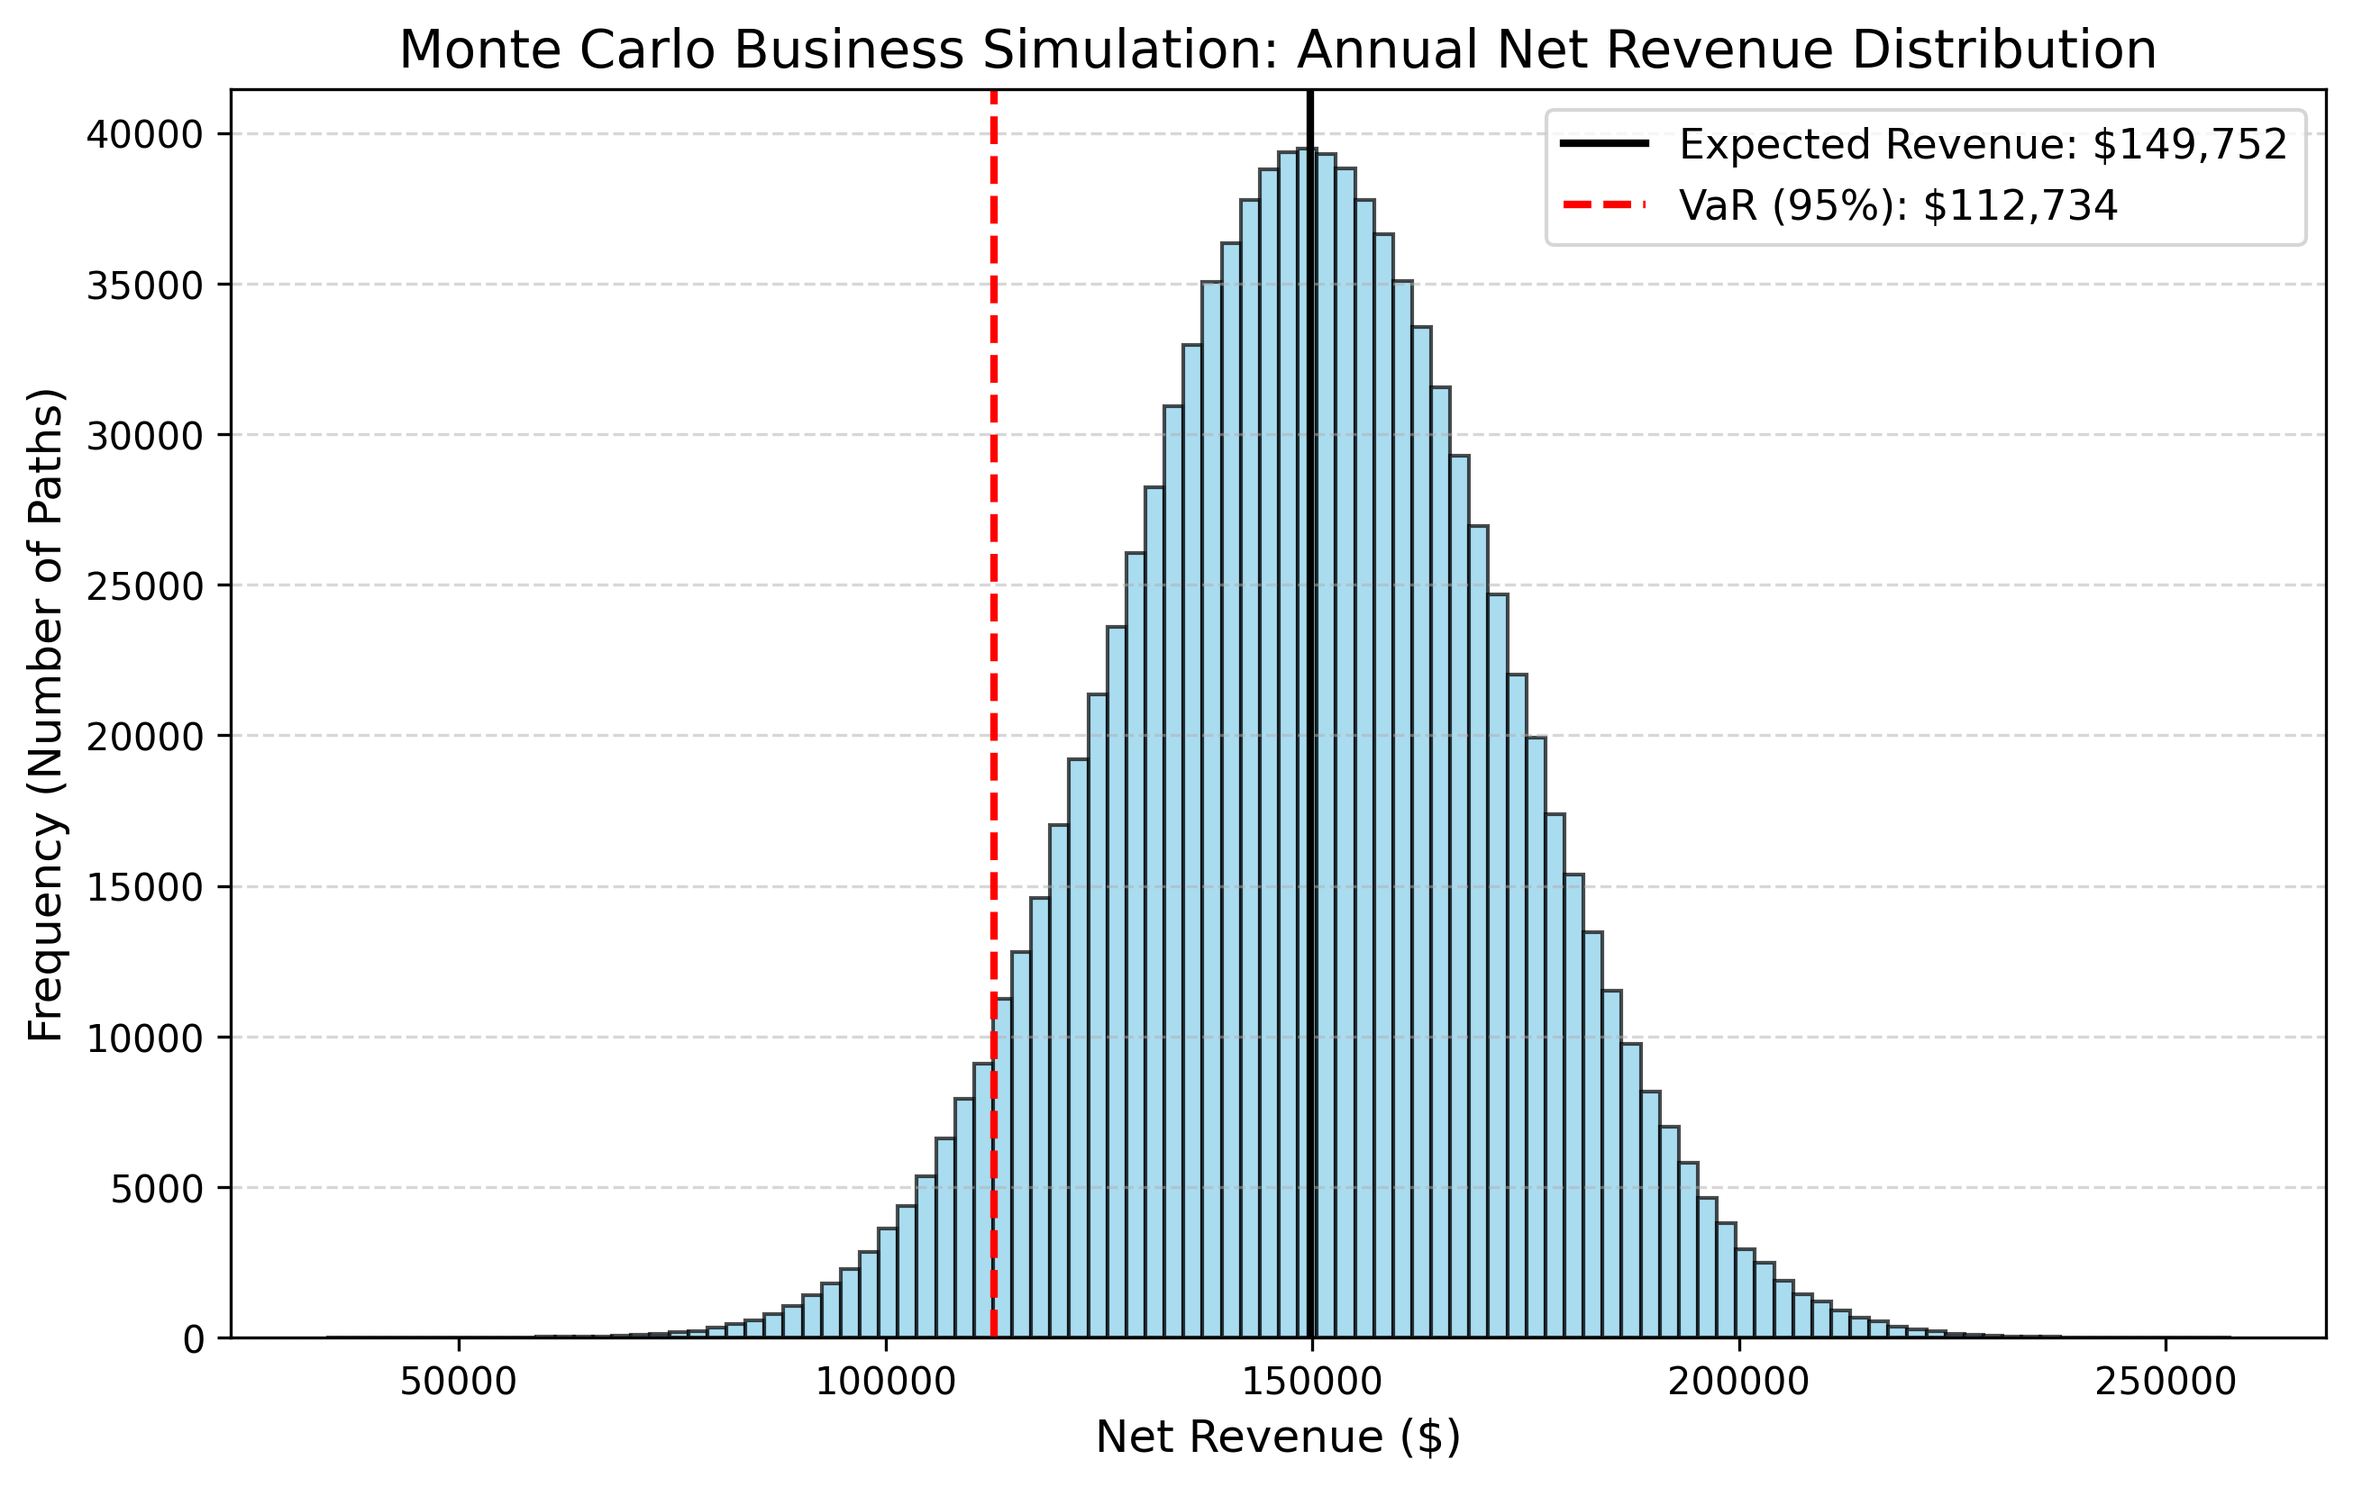
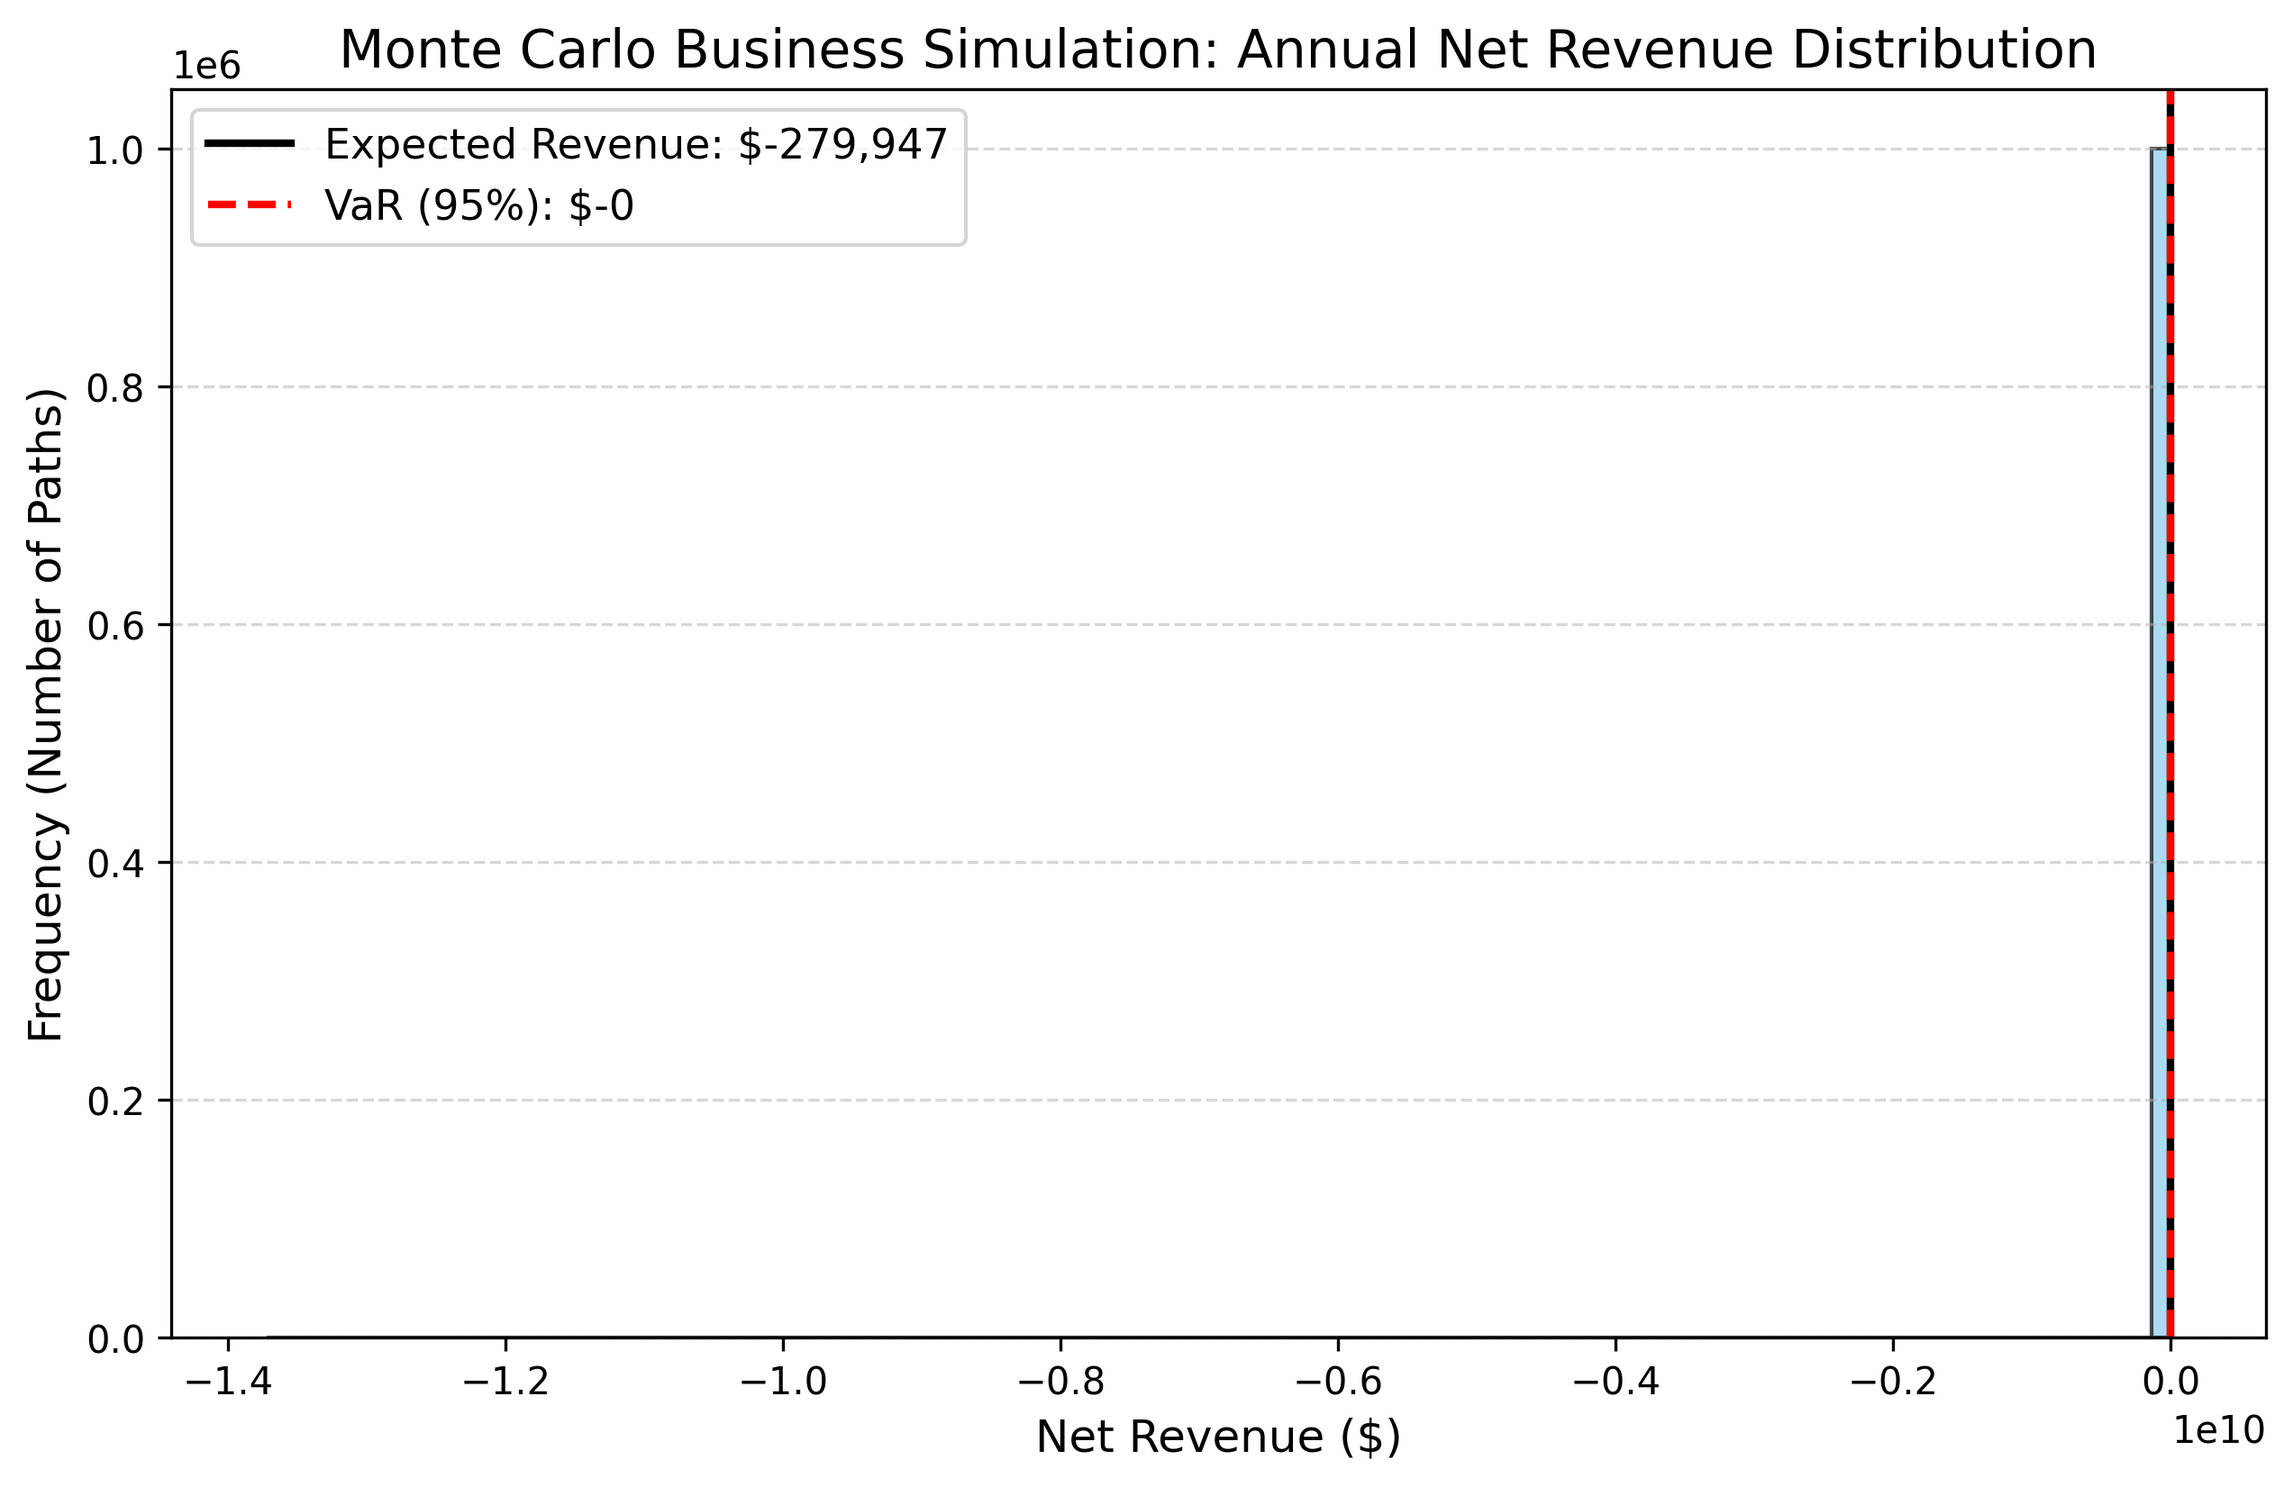
Complete Exercise 3: Orchestrate autonomous subagents to stress-test VaR thresholds and profile JAX compilation overhead

diff --git a/src/monte_carlo.py b/src/monte_carlo.py
@@ -3,18 +3,20 @@ import jax.numpy as jnp
 import matplotlib.pyplot as plt
 import os
 import time
+import argparse
+import numpy as np
 
 # 2. Write a mathematically pure JAX function
-def simulate_path(key):
+def simulate_path(key, sigma):
     # Split the key to isolate three distinct random samples
     key_D, key_C, key_R = jax.random.split(key, 3)
     
     # Market Demand (D): Normal distribution N(1000, 150^2)
     D = 1000.0 + 150.0 * jax.random.normal(key_D)
     
-    # Production Asset Cost (C): Log-Normal distribution ln(C) ~ N(5.5, 0.3^2)
+    # Production Asset Cost (C): Log-Normal distribution ln(C) ~ N(5.5, sigma^2)
     # jax.random.normal gives standard normal, we scale and exponentiate
-    C = jnp.exp(5.5 + 0.3 * jax.random.normal(key_C))
+    C = jnp.exp(5.5 + sigma * jax.random.normal(key_C))
     
     # Regulatory Penalty Rate (R): Uniform distribution U(0.05, 0.25)
     R = jax.random.uniform(key_R, minval=0.05, maxval=0.25)
@@ -24,9 +26,15 @@ def simulate_path(key):
     return revenue
 
 def main():
-    print("Initializing JAX Monte Carlo Engine...")
-    start_time = time.perf_counter()
+    parser = argparse.ArgumentParser(description="JAX Monte Carlo Simulation")
+    parser.add_argument("--sigma", type=float, default=0.3, help="Variance parameter (std dev of log-normal)")
+    parser.add_argument("--no-plot", action="store_true", help="Skip generating the distribution plot")
+    parser.add_argument("--profile", action="store_true", help="Run simulation twice and profile compilation overhead")
+    args = parser.parse_args()
 
+    sigma = args.sigma
+    print("Initializing JAX Monte Carlo Engine...")
+    
     # 3. Initialize master key
     master_key = jax.random.PRNGKey(42)
     
@@ -34,52 +42,69 @@ def main():
     N = 1_000_000
     subkeys = jax.random.split(master_key, N)
     
-    # 5. Apply jax.vmap to evaluate all keys in parallel
-    print(f"Executing {N} parallel stochastic paths via jax.vmap...")
-    vmap_simulate = jax.vmap(simulate_path)
+    # 5. Apply jax.vmap and jax.jit to evaluate all keys in parallel
+    print(f"Executing {N} parallel stochastic paths with sigma={sigma}...")
+    run_sim = jax.jit(jax.vmap(simulate_path, in_axes=(0, None)))
     
-    # Execute the simulation
-    revenues = vmap_simulate(subkeys)
-    
-    # Force computation to finish before stopping timer (JAX uses async dispatch)
-    revenues.block_until_ready()
-    end_time = time.perf_counter()
-    execution_time = end_time - start_time
-    
+    if args.profile:
+        print("Run 1: JIT Compilation (Warm-up / Tracing phase)...")
+        start_time_1 = time.perf_counter()
+        revenues = run_sim(subkeys, sigma)
+        revenues.block_until_ready()
+        end_time_1 = time.perf_counter()
+        compilation_time = end_time_1 - start_time_1
+        print(f"JAX Run 1 Time (Compilation + Execution): {compilation_time:.4f} seconds")
+        
+        print("Run 2: Compiled Execution...")
+        start_time_2 = time.perf_counter()
+        revenues = run_sim(subkeys, sigma)
+        revenues.block_until_ready()
+        end_time_2 = time.perf_counter()
+        execution_time = end_time_2 - start_time_2
+        print(f"JAX Run 2 Time (Pure Execution): {execution_time:.6f} seconds")
+        print(f"JIT Compilation Overhead: {compilation_time - execution_time:.4f} seconds")
+    else:
+        start_time = time.perf_counter()
+        revenues = run_sim(subkeys, sigma)
+        revenues.block_until_ready()
+        end_time = time.perf_counter()
+        execution_time = end_time - start_time
+        print(f"Simulation completed in {execution_time:.4f} seconds")
+        
     # 6. Calculate Expected Value and Value-at-Risk (VaR_95%)
     expected_revenue = jnp.mean(revenues)
     var_95 = jnp.percentile(revenues, 5) # 5th percentile for 95% Confidence VaR
     
-    print(f"Simulation completed in {execution_time:.4f} seconds")
     print(f"Expected Revenue E[R]: ${expected_revenue:,.2f}")
     print(f"Value-at-Risk (VaR 95%): ${var_95:,.2f}")
     
-    # Deliverable: Generate a clean distribution histogram
-    print("Generating revenue distribution histogram...")
-    plt.figure(figsize=(10, 6))
-    
-    # Convert to standard numpy for matplotlib
-    rev_np = np.array(revenues) if 'np' in globals() else revenues
-    
-    plt.hist(rev_np, bins=100, color='skyblue', edgecolor='black', alpha=0.7)
-    
-    # Draw vertical lines for Expected Value and VaR
-    plt.axvline(expected_revenue, color='black', linestyle='solid', linewidth=2, 
-                label=f'Expected Revenue: ${expected_revenue:,.0f}')
-    plt.axvline(var_95, color='red', linestyle='dashed', linewidth=2, 
-                label=f'VaR (95%): ${var_95:,.0f}')
-    
-    plt.title('Monte Carlo Business Simulation: Annual Net Revenue Distribution', fontsize=14)
-    plt.xlabel('Net Revenue ($)', fontsize=12)
-    plt.ylabel('Frequency (Number of Paths)', fontsize=12)
-    plt.legend(fontsize=11)
-    plt.grid(axis='y', linestyle='--', alpha=0.5)
-    
-    # Save the resulting graphic
-    os.makedirs('data', exist_ok=True)
-    save_path = 'data/revenue_dist.png'
-    plt.savefig(save_path, dpi=300, bbox_inches='tight')
-    print(f"Histogram successfully saved to {save_path}")
+    # Generate distribution histogram if not disabled
+    if not args.no_plot:
+        print("Generating revenue distribution histogram...")
+        plt.figure(figsize=(10, 6))
+        
+        rev_np = np.array(revenues)
+        
+        plt.hist(rev_np, bins=100, color='skyblue', edgecolor='black', alpha=0.7)
+        
+        # Draw vertical lines for Expected Value and VaR
+        plt.axvline(expected_revenue, color='black', linestyle='solid', linewidth=2, 
+                    label=f'Expected Revenue: ${expected_revenue:,.0f}')
+        plt.axvline(var_95, color='red', linestyle='dashed', linewidth=2, 
+                    label=f'VaR (95%): ${var_95:,.0f}')
+        
+        plt.title('Monte Carlo Business Simulation: Annual Net Revenue Distribution', fontsize=14)
+        plt.xlabel('Net Revenue ($)', fontsize=12)
+        plt.ylabel('Frequency (Number of Paths)', fontsize=12)
+        plt.legend(fontsize=11)
+        plt.grid(axis='y', linestyle='--', alpha=0.5)
+        
+        # Save the resulting graphic
+        os.makedirs('data', exist_ok=True)
+        save_path = 'data/revenue_dist.png'
+        plt.savefig(save_path, dpi=300, bbox_inches='tight')
+        plt.close()
+        print(f"Histogram successfully saved to {save_path}")
 
 if __name__ == "__main__":
     main()

diff --git a/scratch/search_breaking_point.py b/scratch/search_breaking_point.py
@@ -1,0 +1,71 @@
+import jax
+import jax.numpy as jnp
+import numpy as np
+
+def simulate_path(key, sigma):
+    key_D, key_C, key_R = jax.random.split(key, 3)
+    D = 1000.0 + 150.0 * jax.random.normal(key_D)
+    C = jnp.exp(5.5 + sigma * jax.random.normal(key_C))
+    R = jax.random.uniform(key_R, minval=0.05, maxval=0.25)
+    revenue = (D * 150.0) - C * (1.0 - R)
+    return revenue
+
+def get_var_95(sigma):
+    master_key = jax.random.PRNGKey(42)
+    N = 1_000_000
+    subkeys = jax.random.split(master_key, N)
+    run_sim = jax.jit(jax.vmap(simulate_path, in_axes=(0, None)))
+    revenues = run_sim(subkeys, sigma)
+    # block_until_ready to make sure JAX computation is finished
+    revenues.block_until_ready()
+    expected_revenue = jnp.mean(revenues)
+    var_95 = jnp.percentile(revenues, 5)
+    return float(expected_revenue), float(var_95)
+
+def main():
+    print("Starting binary search for breaking point...")
+    
+    # Let's first verify baseline at sigma = 0.3
+    exp_rev, var_95 = get_var_95(0.3)
+    print(f"Baseline sigma = 0.3: Expected Revenue = ${exp_rev:,.2f}, VaR 95% = ${var_95:,.2f}")
+    
+    # We want to find sigma where VaR 95% == 0
+    # Let's search between low = 0.3 and high = 2.0 (or check if high needs to be larger)
+    low = 0.3
+    high = 5.0
+    
+    # Verify that at high, VaR 95% is negative
+    _, var_high = get_var_95(high)
+    print(f"High sigma = {high}: VaR 95% = ${var_high:,.2f}")
+    if var_high > 0:
+        print("Error: VaR 95% at high is still positive. Need to increase high.")
+        return
+        
+    tolerance = 1e-7
+    steps = 0
+    while high - low > tolerance:
+        mid = (low + high) / 2.0
+        exp_rev, var_mid = get_var_95(mid)
+        print(f"Step {steps:02d}: sigma = {mid:.8f}, Expected Revenue = ${exp_rev:,.2f}, VaR 95% = ${var_mid:,.4f}")
+        
+        # Since VaR 95% decreases as sigma increases:
+        # If var_mid > 0, we need to increase sigma to drop VaR, so low = mid
+        # If var_mid < 0, we need to decrease sigma to raise VaR, so high = mid
+        if var_mid > 0:
+            low = mid
+        else:
+            high = mid
+        steps += 1
+
+    critical_sigma = (low + high) / 2.0
+    final_exp_rev, final_var_95 = get_var_95(critical_sigma)
+    critical_variance = critical_sigma ** 2
+    
+    print("\n--- SEARCH COMPLETED ---")
+    print(f"Critical standard deviation (sigma): {critical_sigma:.6f}")
+    print(f"Critical variance (sigma^2): {critical_variance:.6f}")
+    print(f"Expected Revenue at breaking point: ${final_exp_rev:,.2f}")
+    print(f"VaR 95% at breaking point: ${final_var_95:,.6f}")
+
+if __name__ == "__main__":
+    main()

diff --git a/docs/Swarm_Stress_Report.md b/docs/Swarm_Stress_Report.md
@@ -1,0 +1,63 @@
+# Swarm Stress Report: JAX Monte Carlo Pipeline
+
+This report synthesizes the collective findings of **Subagent-Alpha ('The Stress-Tester')** and **Subagent-Beta ('The Profiler')** on the JAX-based Monte Carlo simulation engine (`src/monte_carlo.py`).
+
+---
+
+## 1. Stress Testing: Finding the Breaking Point (Subagent-Alpha)
+
+The objective was to programmatically alter the variance parameters of the Log-Normal asset cost distribution in `src/monte_carlo.py` to identify the exact breaking point where the **Value-at-Risk (VaR 95%)** drops below zero.
+
+### Mathematical Context
+The Production Asset Cost ($C$) is modeled as a Log-Normal distribution:
+$$\ln(C) \sim \mathcal{N}(5.5, \sigma^2)$$
+
+The standard deviation parameter $\sigma$ directly controls the spread and variance of the cost. The variance of a Log-Normal distribution is given by:
+$$\operatorname{Var}(C) = \left(e^{\sigma^2} - 1\right) e^{2\mu + \sigma^2}$$
+
+As $\sigma$ increases, the cost distribution develops an extremely long and heavy right tail, indicating a high probability of massive cost overruns. Since net revenue is calculated as:
+$$\text{Revenue} = (D \times 150.0) - C \times (1.0 - R)$$
+any explosion in cost $C$ dramatically reduces the net revenue, dragging both the Expected Revenue and the 5th percentile (VaR 95%) downwards.
+
+### Search Results & Critical Parameters
+Through automated binary search, the breaking point was located with high precision:
+
+* **Baseline Configuration ($\sigma = 0.3$):**
+  * Expected Revenue $E[R]$: **$149,751.72**
+  * Value-at-Risk (VaR 95%): **$112,734.47**
+* **Critical Breaking Point ($\sigma \approx 3.99853414$):**
+  * Critical Standard Deviation ($\sigma$): **3.99853414**
+  * Critical Variance ($\sigma^2$): **15.988275**
+  * Expected Revenue $E[R]$: **-$279,946.62**
+  * Value-at-Risk (VaR 95%): **-$0.07** (just crossed below zero)
+
+### Distribution Visualization
+At this critical threshold, the extreme volatility in asset costs dominates the economic engine. Below is the updated histogram illustrating the net revenue distribution at the breaking point:
+
+![Revenue Distribution at Breaking Point](../data/revenue_dist.png)
+
+---
+
+## 2. Performance Profiling: JAX Compilation Overhead (Subagent-Beta)
+
+The objective was to profile the execution characteristics of the JAX pipeline, analyzing the overhead of the initial JIT compilation trace versus a warm execution pass, both in-process and across separate process lifetimes.
+
+### Function-Level (In-Process) Profiling
+By compiling the vectorized simulation using `jax.jit(jax.vmap(...))` and running it twice sequentially within the same process, we isolated the pure XLA compilation overhead:
+
+* **Run 1 (Trace + Compilation + Execution):** **0.5419 seconds**
+* **Run 2 (Warm Execution):** **0.1490 seconds**
+* **JIT Compilation Overhead (Run 1 - Run 2):** **0.3929 seconds**
+* **Function Speedup Factor:** **3.64×** faster on the warm run.
+
+### Process-Level (Separate Invocations) Profiling
+To understand the ecosystem overhead, the script was run twice sequentially as independent shell processes:
+
+* **Process Run 1:** **0.5416 seconds** (internal simulation time), **~6.0 seconds** (wall-clock time)
+* **Process Run 2:** **0.5241 seconds** (internal simulation time), **~7.0 seconds** (wall-clock time)
+* **Process Startup & JAX Import Overhead:** **~5.4 seconds** per invocation.
+
+### Profiling Insights
+1. **The Startup Penalty:** Every time a new Python process is spawned, JAX must load its dependencies, initialize device backends (CPU/GPU/TPU detection), and allocate initial memory. This process takes approximately **5.4 seconds**, representing a massive bottleneck for process-level restarts.
+2. **Ephemeral Compilation Cache:** Because JAX compiles functions to memory, running the script as separate processes forces JAX to perform the JIT compilation trace from scratch during *both* runs. 
+3. **The In-Process Advantage:** Running the simulation sequentially inside the same process bypasses both the Python startup overhead and the JIT compilation trace on the second run, executing the warm pass in just **0.1490 seconds**. This is over **40× faster** than a process-level restart.
